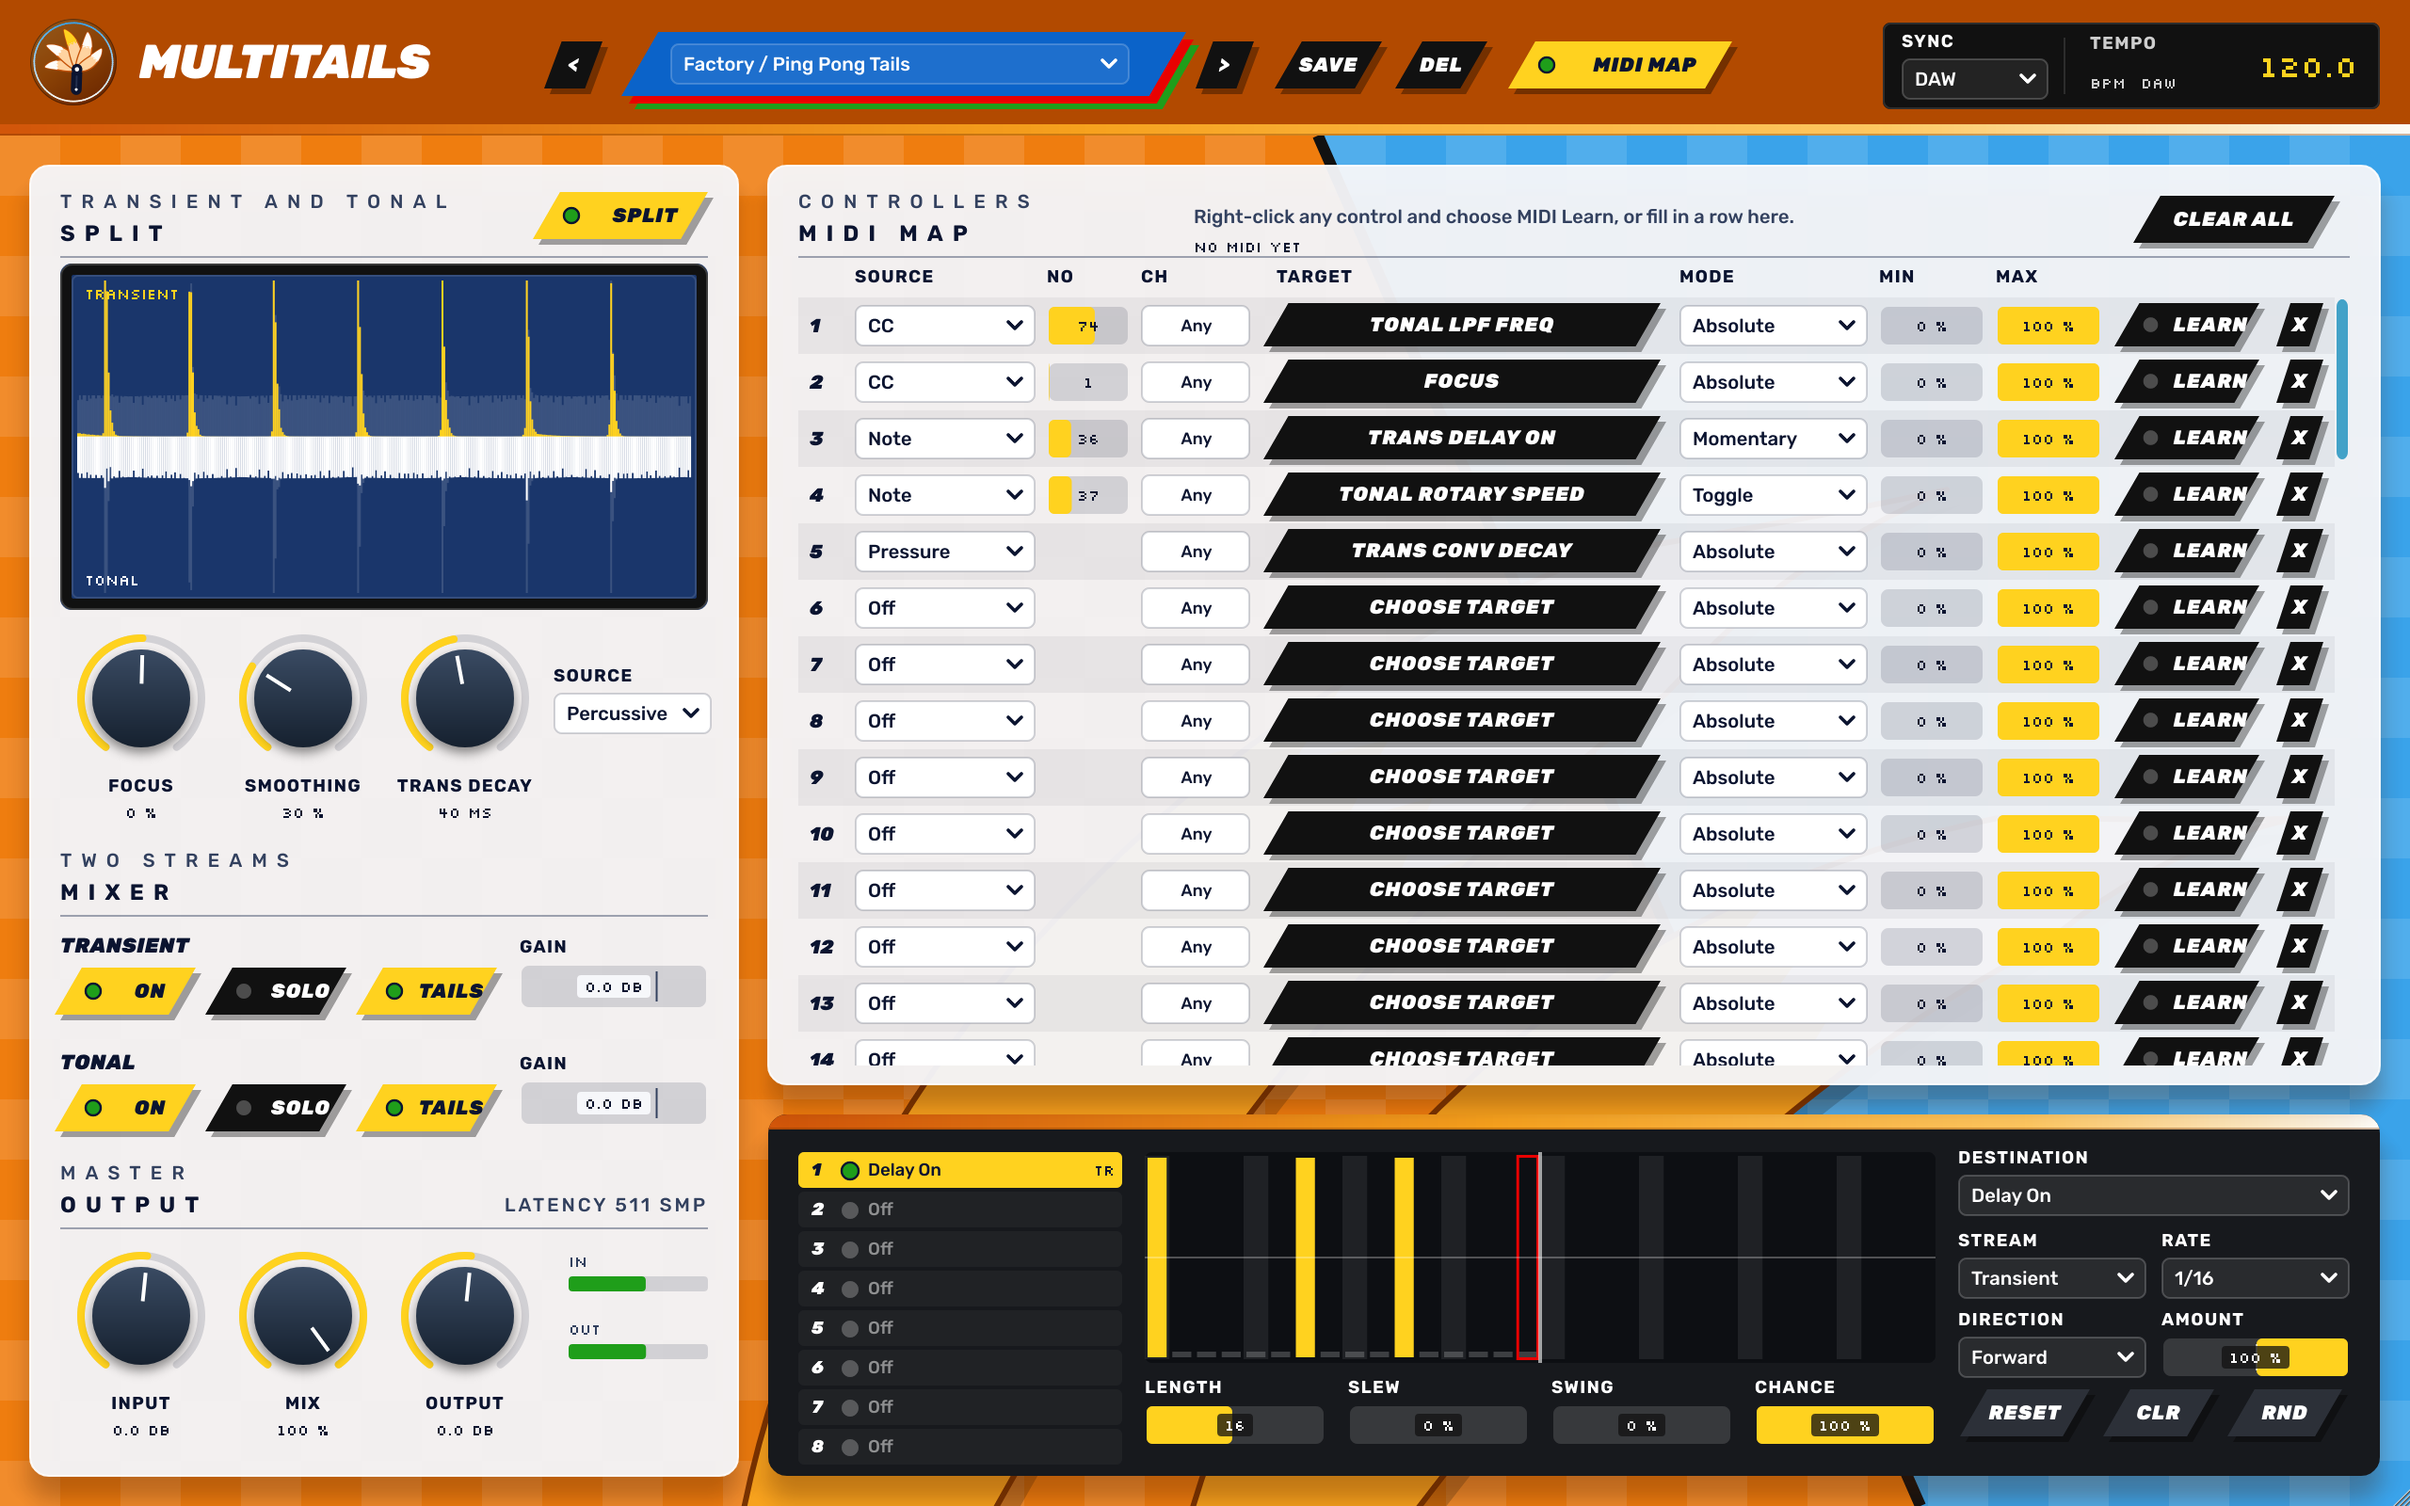
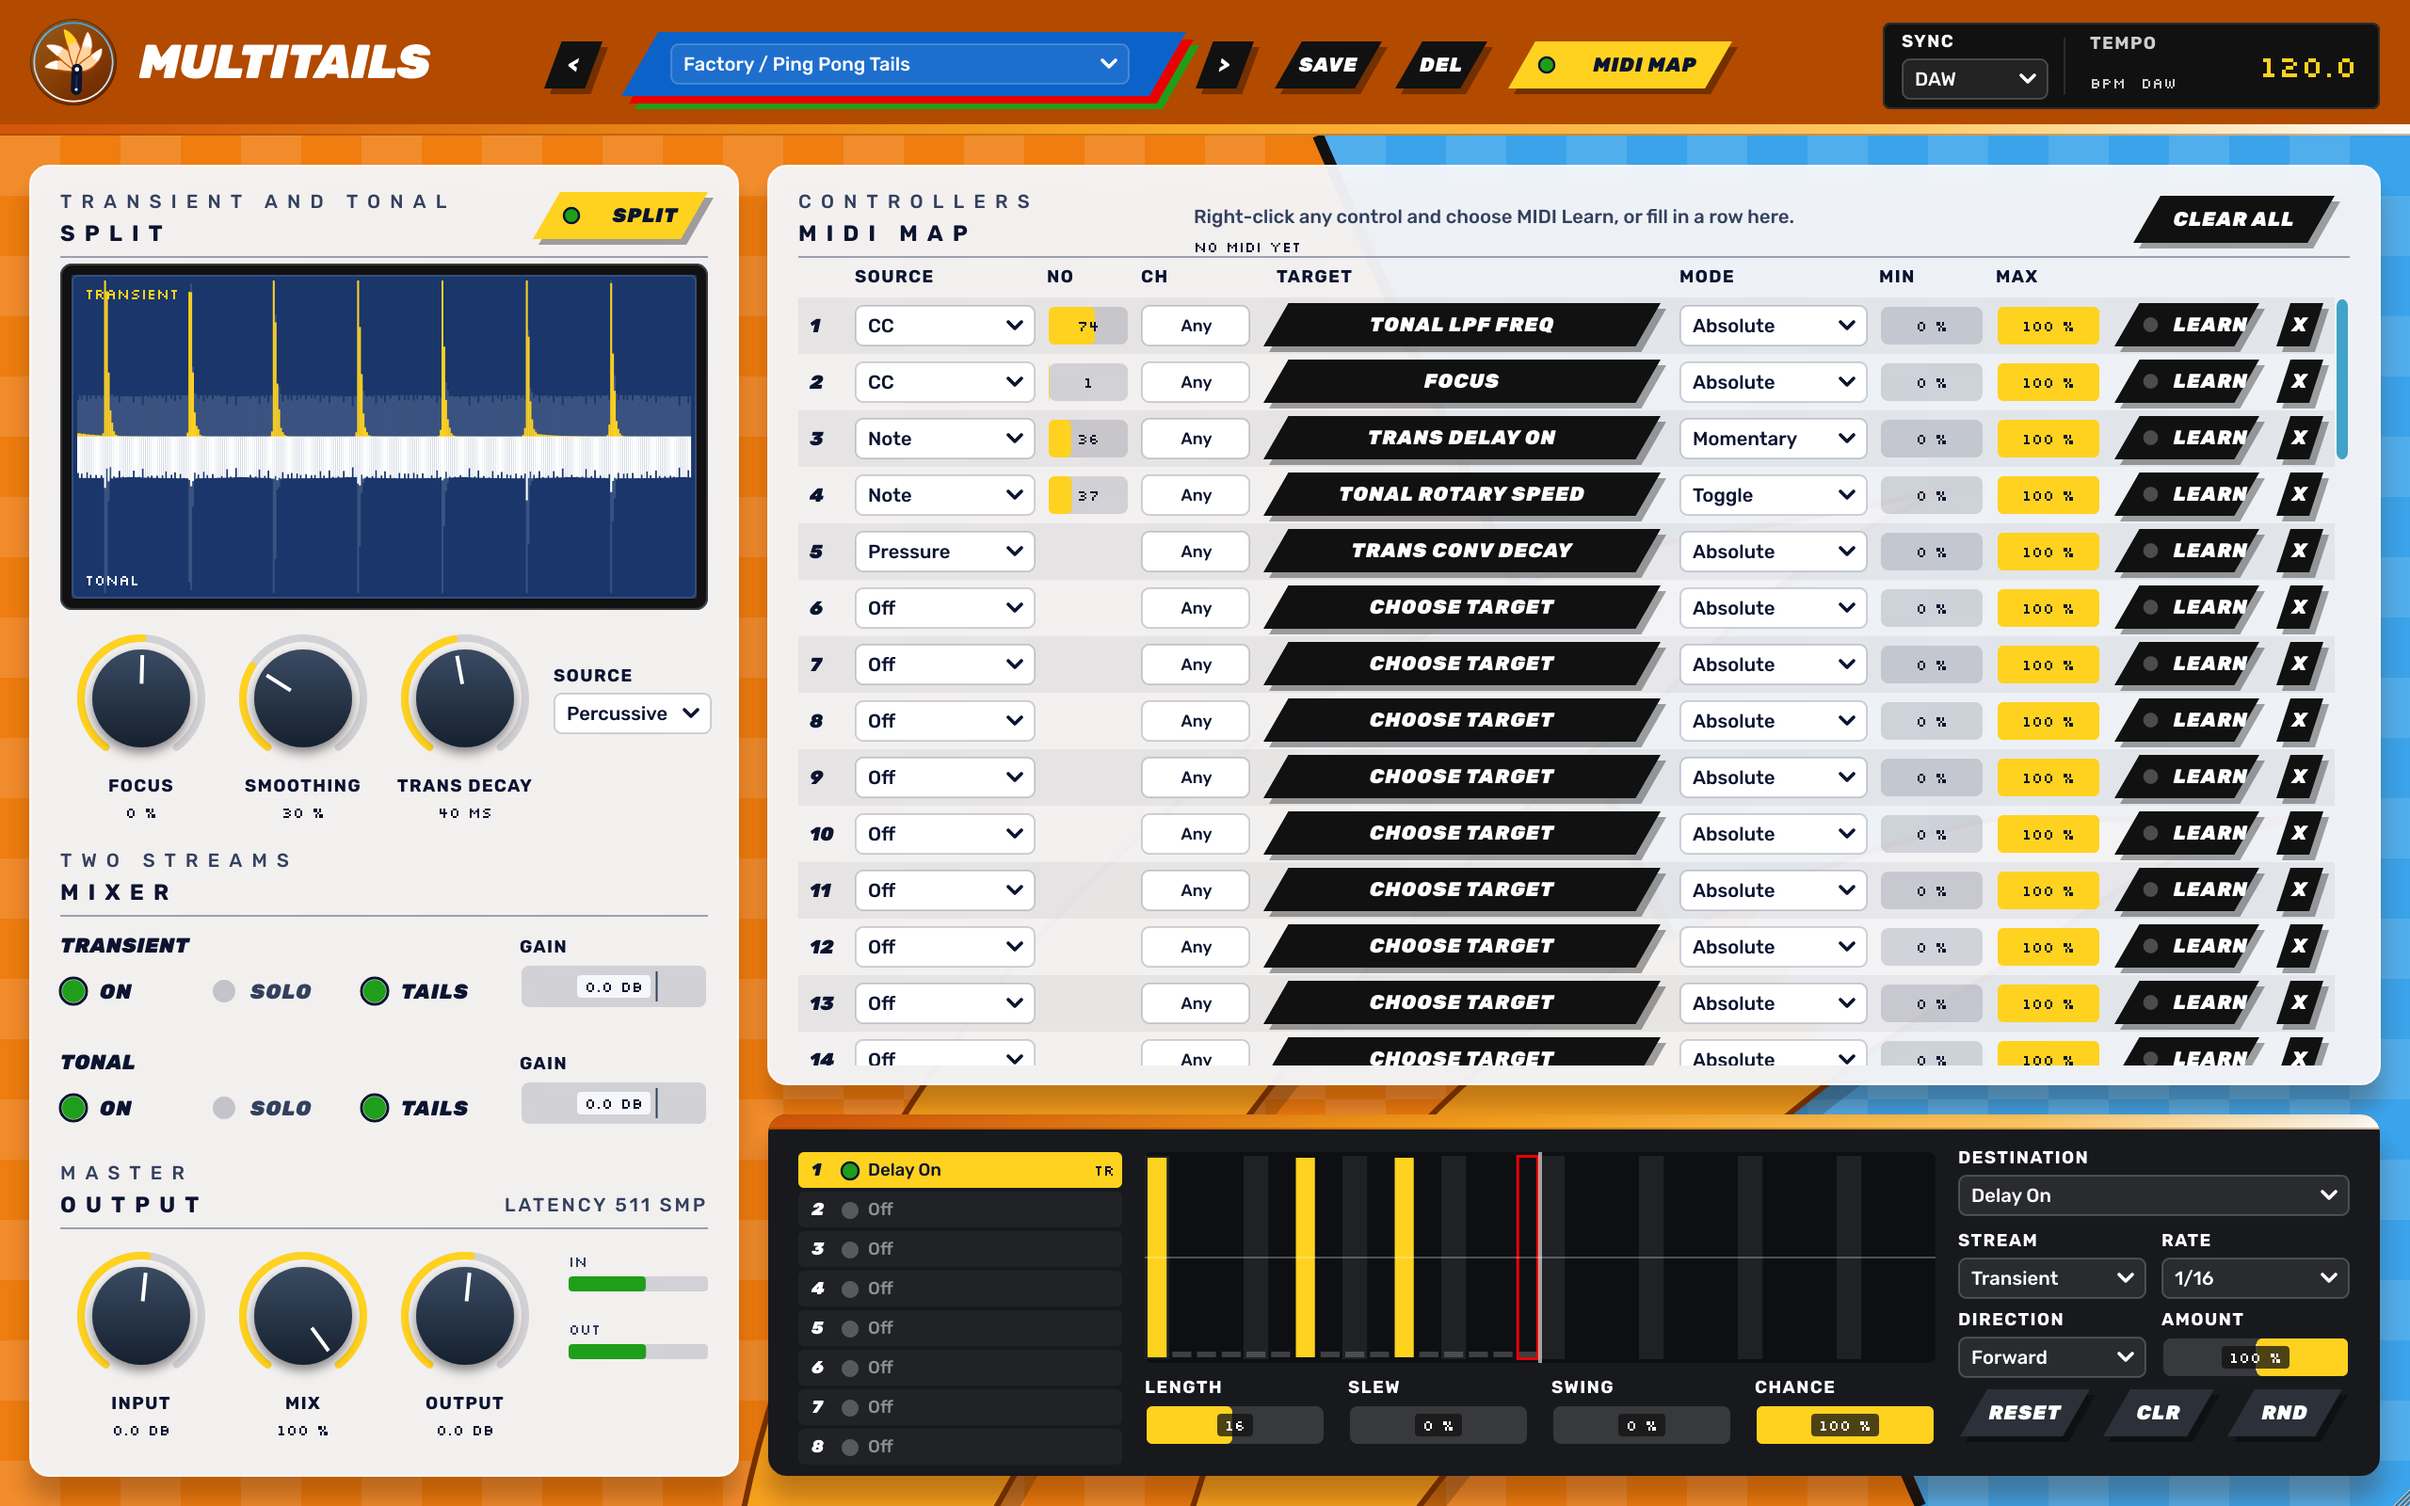
Toggle senza targa per ON/SOLO/TAILS dei flussi e testine 1-4 del tape echo
Solo scritta e pallino da 12 px (proprietà sgBare in TailsUI.h), come la lista tracce di DR. SEGG-UENCER.

Claude-Session: https://claude.ai/code/session_01G1ssJgDWbMka8d6p7ECLTb

Changed region(s): [[0.0, 0.625, 0.2188, 0.6875], [0.0, 0.7188, 0.2188, 0.7812]]

diff --git a/Source/TailsUI.h b/Source/TailsUI.h
@@ -196,6 +196,15 @@ inline void glassPanel (juce::Graphics& g, juce::Rectangle<float> r, const juce:
     sectionTitle (g, r.reduced (16.0f, 0.0f).withY (r.getY() + 12.0f), kicker, title, mode);
 }
 
+/** Toggles drawn without a plate: only the word and a large LED, as the track list of DR. SEGG-UENCER.
+    The control (or the button itself) carries the property. */
+inline bool isBare (const juce::Component& comp)
+{
+    for (auto* p = &comp; p != nullptr; p = p->getParentComponent())
+        if (p->getProperties()["sgBare"]) return true;
+    return false;
+}
+
 /** Controls on a dark ground (header plates, modulation deck) carry this property. */
 inline bool isOnDark (const juce::Component& comp)
 {
@@ -208,6 +217,7 @@ class LookAndFeel : public juce::LookAndFeel_V4
 {
 public:
     static constexpr int kValueH = 13, kCaptionH = 15;   // knob readout and caption rows
+    static constexpr float kBareLed = 12.0f;             // LED of a toggle without plate
 
     LookAndFeel()
     {
@@ -346,6 +356,14 @@ public:
         auto r = b.getLocalBounds().toFloat().reduced (1.0f, 2.0f).withTrimmedRight (3.0f).withTrimmedBottom (1.0f);
         const bool on = b.getToggleState();
         const bool rec = b.getProperties()["sgRec"];
+        if (isBare (b))
+        {   // no plate, no shadow: a large LED with a ring when on, the word beside it (drawButtonText)
+            auto led = juce::Rectangle<float> (kBareLed, kBareLed).withCentre ({ r.getX() + 4.0f + kBareLed * 0.5f, r.getCentreY() });
+            g.setColour (on ? c::go : (over || down ? c::ink.withAlpha (0.35f) : c::ink.withAlpha (0.2f)));
+            g.fillEllipse (led);
+            if (on) { g.setColour (c::ink); g.drawEllipse (led.expanded (1.0f), 1.5f); }
+            return;
+        }
         auto p = platePath (r);
         g.setColour (juce::Colour (0x59000000));
         g.fillPath (p, juce::AffineTransform::translation (3, 3));
@@ -370,6 +388,14 @@ public:
     {
         auto r = b.getLocalBounds().toFloat().reduced (1.0f, 2.0f).withTrimmedRight (3.0f).withTrimmedBottom (1.0f);
         const bool on = b.getToggleState(), rec = b.getProperties()["sgRec"];
+        if (isBare (b))
+        {
+            r.removeFromLeft (4.0f + kBareLed + 8.0f);
+            g.setFont (black (13.0f, 0.04f));
+            g.setColour (on ? c::ink : (b.isOver() ? c::tag : c::inkSoft));
+            g.drawText (b.getButtonText().toUpperCase(), r, juce::Justification::centredLeft, false);
+            return;
+        }
         if (b.getClickingTogglesState()) r.removeFromLeft (r.getHeight() * 0.58f + 12.0f);
         g.setFont (getTextButtonFont (b, b.getHeight()));
         g.setColour (on && ! rec ? c::onAccent : c::onPlate);

diff --git a/Source/TailsEditor.h b/Source/TailsEditor.h
@@ -38,6 +38,7 @@ public:
         {
             auto add = [&] (int param, const char* label, K kind) {
                 auto* ctl = strip.add (new Control (p.state, TailsProcessor::sid (s, param), label, kind));
+                if (kind == K::Toggle) ctl->getProperties().set ("sgBare", true);   // word and LED, no plate
                 wire (*ctl);
                 addAndMakeVisible (ctl);
             };
@@ -369,6 +370,7 @@ private:
         for (auto& e : tables[fx])
         {
             auto* ctl = fxControls.add (new Control (proc.state, TailsProcessor::sid (stream, e.param), e.label, e.kind));
+            if (fx == fxTape && e.param >= tH1 && e.param <= tH4) ctl->getProperties().set ("sgBare", true);   // the four heads: number and LED
             wire (*ctl);
             addAndMakeVisible (ctl);
             ctl->sendLookAndFeelChange();
@@ -391,8 +393,8 @@ private:
             if (e.place.row < 0)
             {
                 const auto kind = e.place.kind;
-                const bool head = fx == tails::fxTape && e.place.col >= 3;    // the four heads are small plates
-                const int w = head ? 58 : (kind == tails::Control::Kind::Menu ? 112 : (juce::String (e.place.label).length() > 5 ? 130 : 98));
+                const bool head = fx == tails::fxTape && e.place.col >= 3;    // the four heads: LED and number, no plate
+                const int w = head ? 46 : (kind == tails::Control::Kind::Menu ? 112 : (juce::String (e.place.label).length() > 5 ? 130 : 98));
                 e.control->setBounds (titleX, kind == tails::Control::Kind::Menu ? headerY + 6 : headerY + 2, w, kind == tails::Control::Kind::Menu ? 24 : 30);
                 titleX += w + 6;
             }

diff --git a/CHANGELOG.md b/CHANGELOG.md
@@ -6,6 +6,7 @@
 - Ogni sezione ha il proprio titolo: SPLIT, MIXER (i due flussi), OUTPUT (con la latenza a destra), CHAINS, MIDI MAP. Ogni effetto mostra il proprio nome (CONVOLUTION, TAPE ECHO, DELAY, CHORUS, ROTARY, FILTER) con sopra la catena in cui si trova.
 - Nuovo logo nell'header: un disco arancione con un anello che sfuma dall'azzurro al bianco. Dentro, un coltellino multiuso aperto a ventaglio: un manico scuro con il rivetto e cinque lame che sono code di volpe con la punta bianca, una con la punta gialla. Accanto, la scritta MULTITAILS in Rubik Black Italic, senza più l'ombra rossa/verde.
 - I file del logo (icona, versioni mono, orizzontale, verticale, solo scritta; SVG e PNG) sono in `Resources/logo`, con lo script che li genera.
+- ON, SOLO e TAILS dei due flussi e le quattro testine del tape echo (1-4) senza targa né ombra: solo la scritta e un pallino più grande, come nella lista tracce di DR. SEGG-UENCER.
 - Nessun cambiamento ai parametri né al suono: preset e sessioni salvate restano compatibili.
 
 ## [0.1.3] - 2026-11-06
